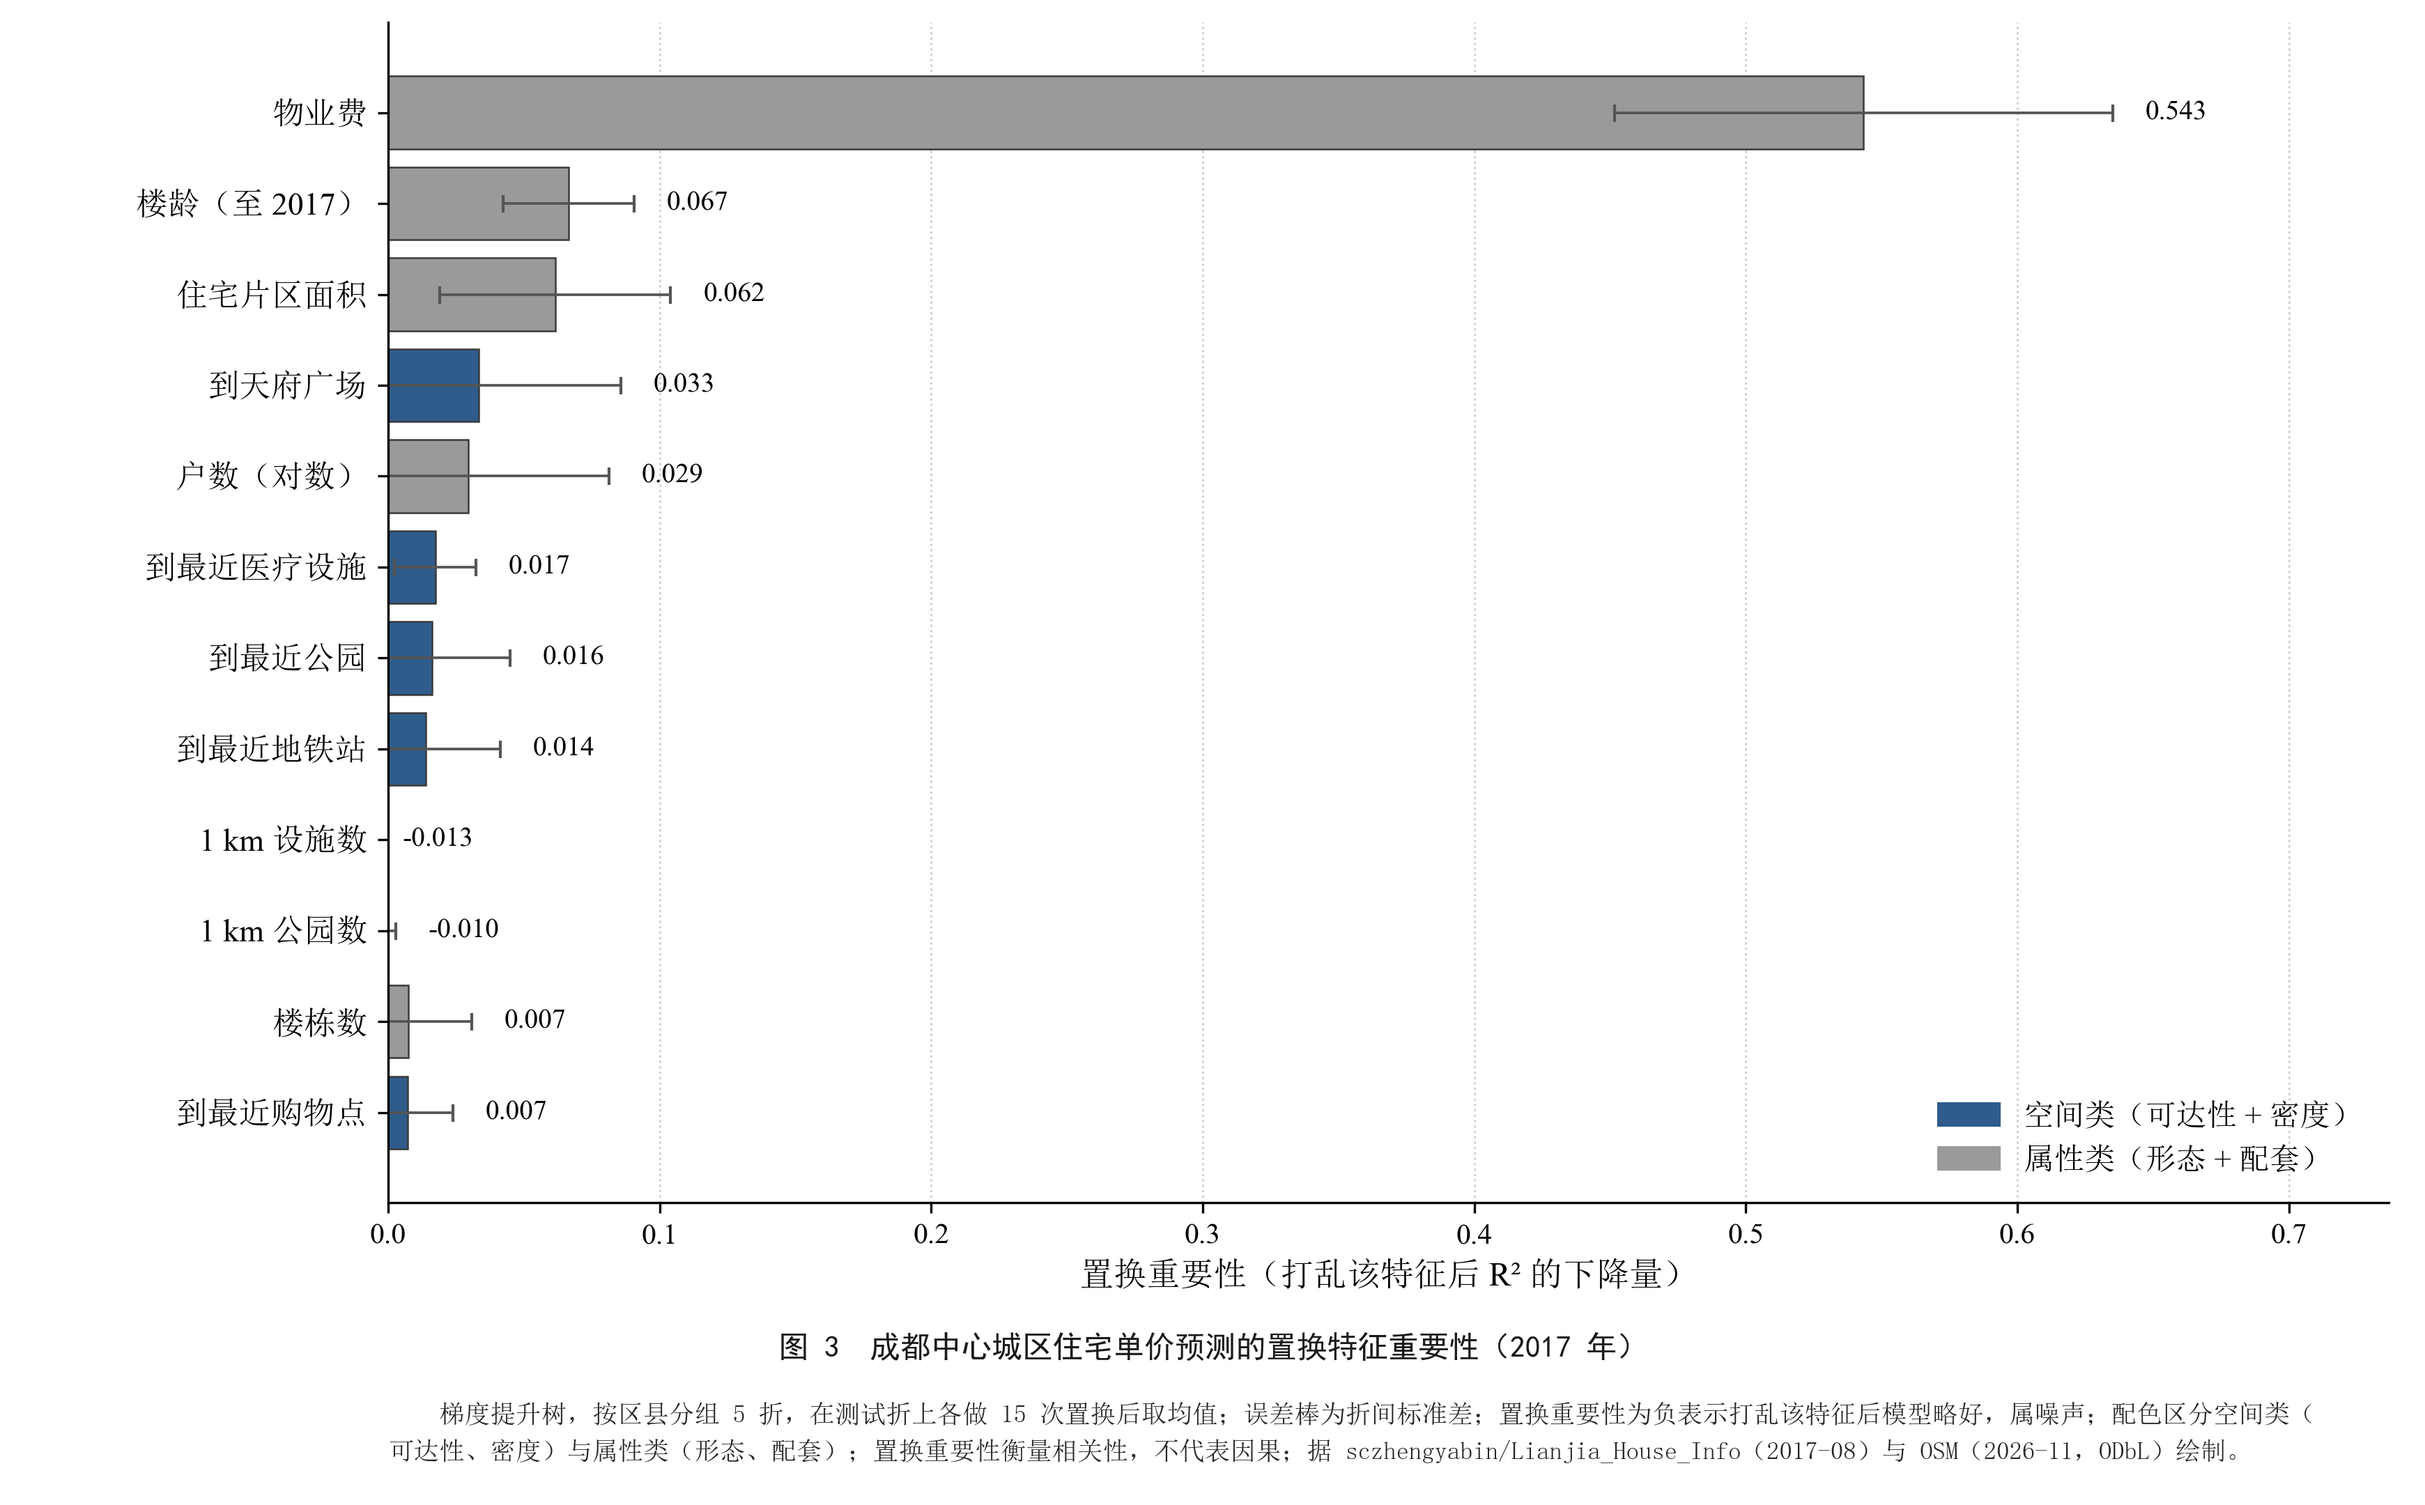
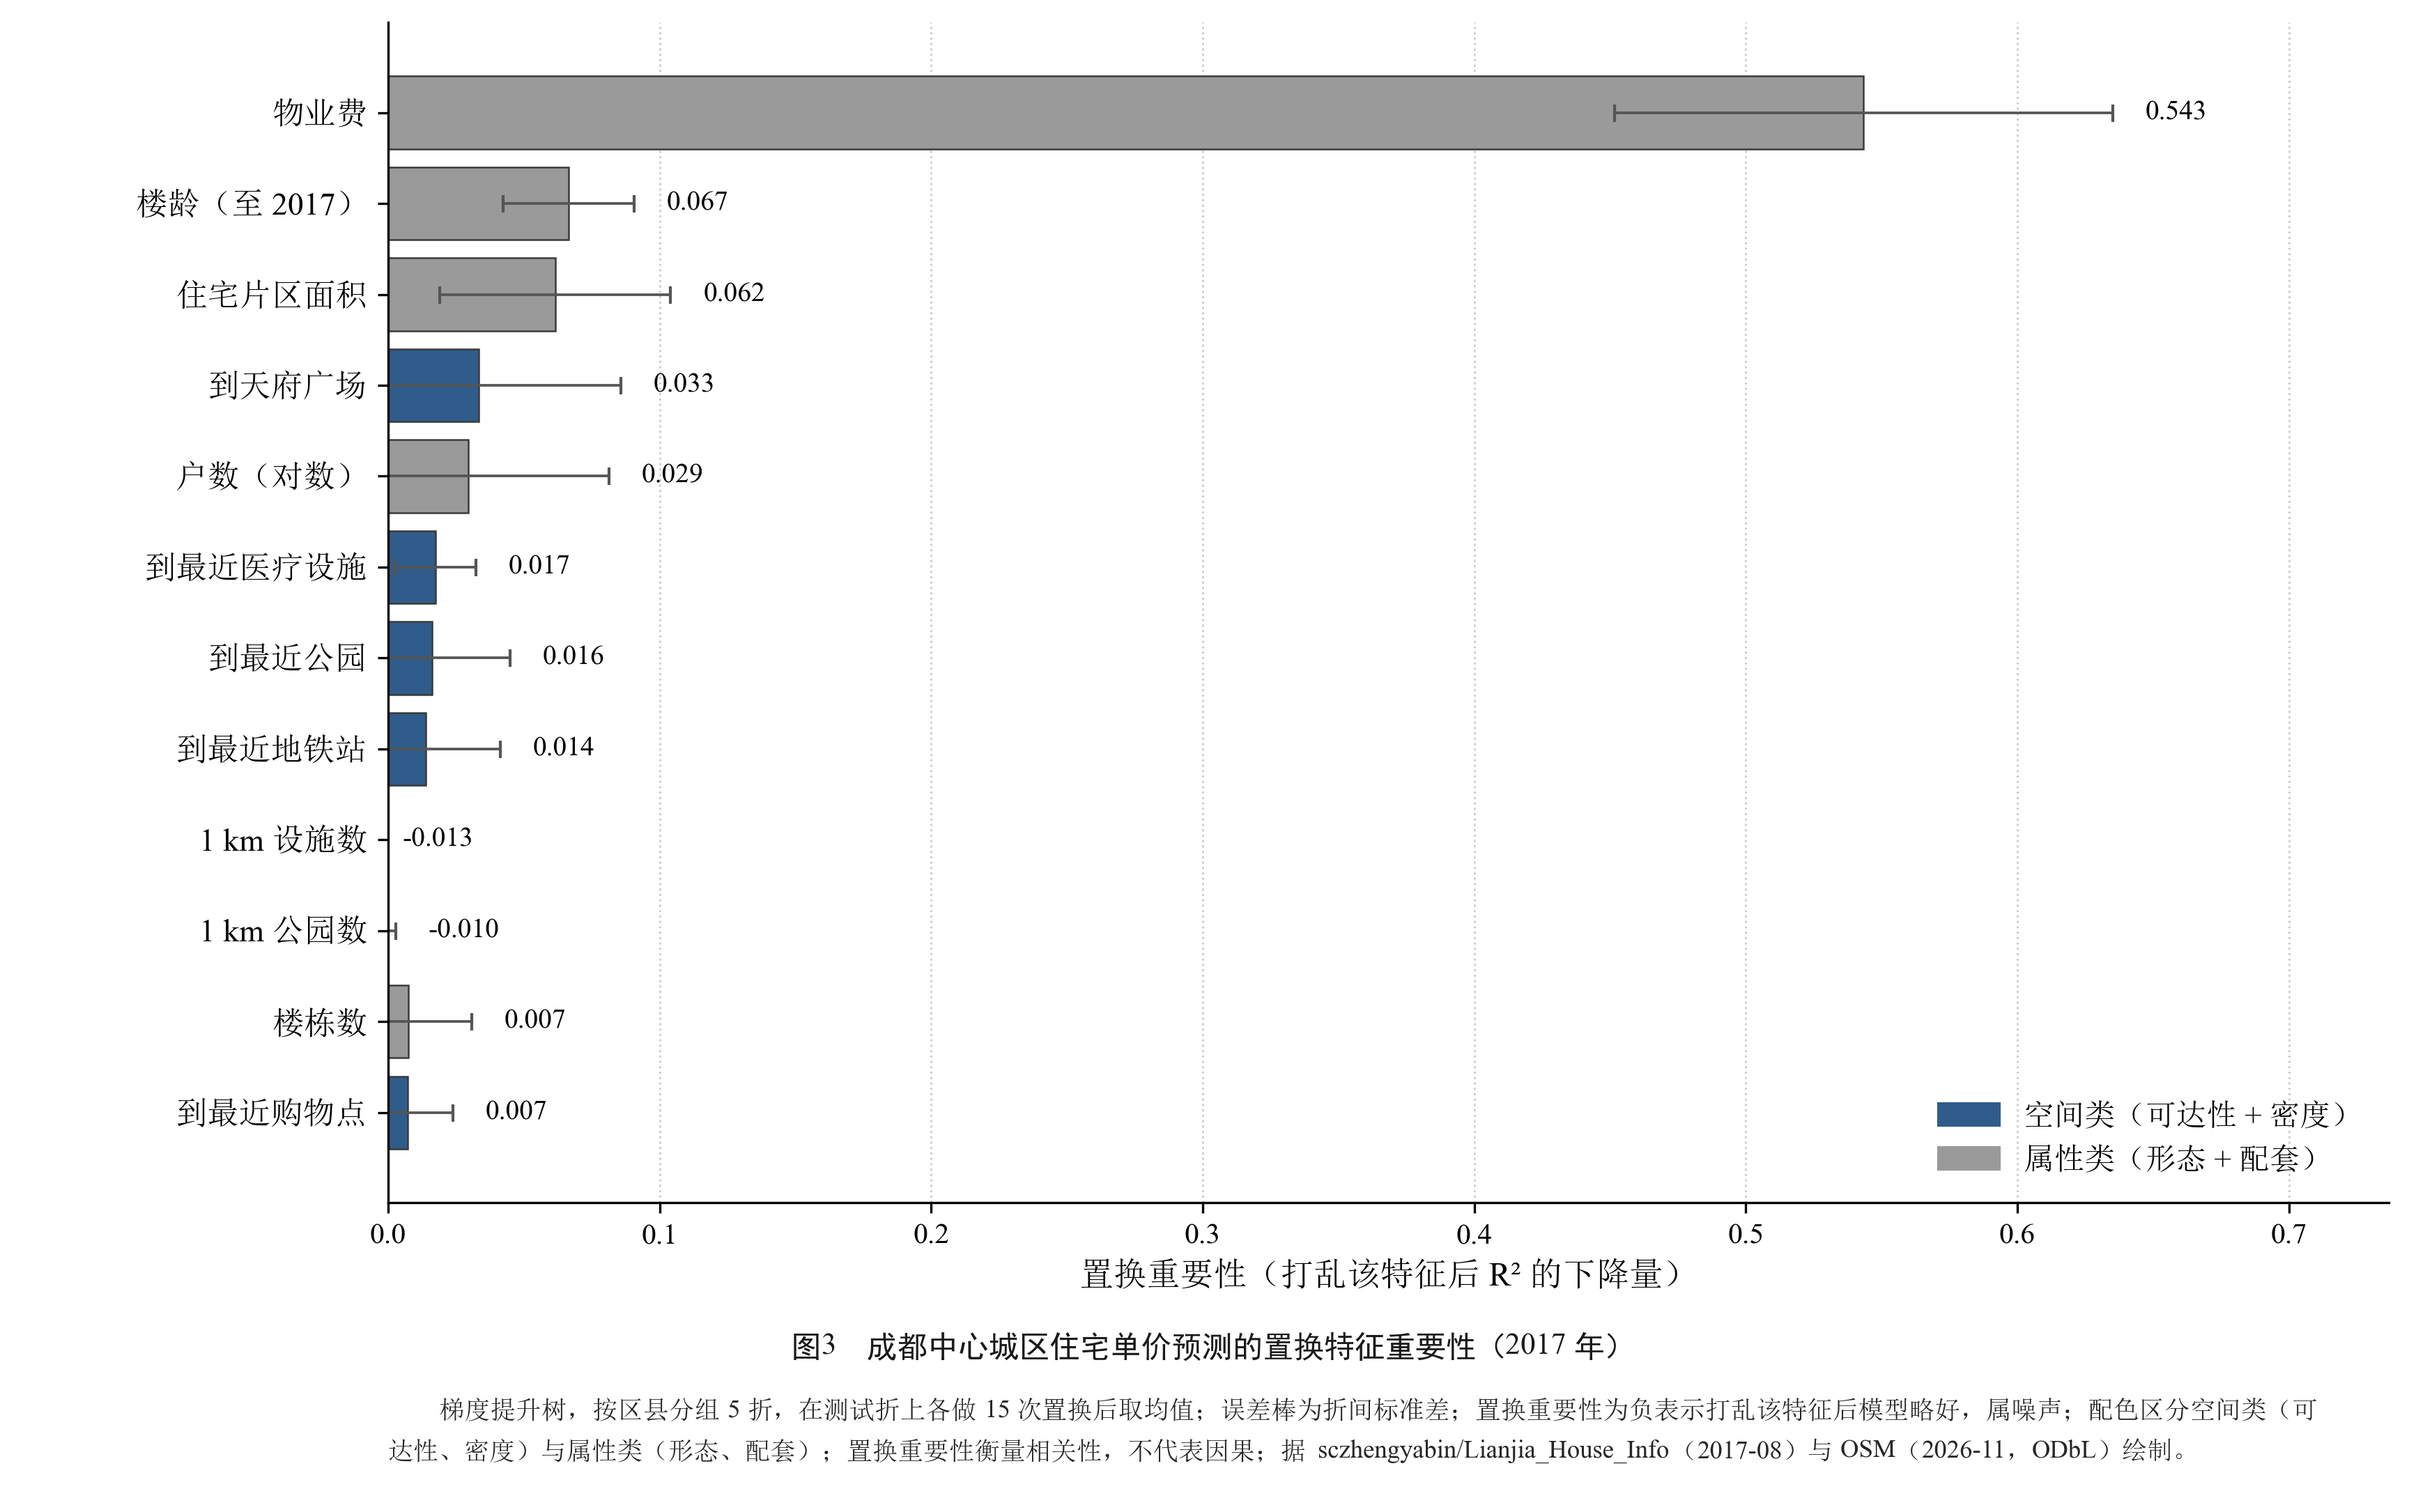
图注西文改 Times New Roman，图号与题名间改 1 个汉字；注释断行加避头尾，不切数字串与括号

Changed region(s): [[0.1862, 0.9306, 0.9621, 0.9926], [0.3103, 0.8685, 0.6828, 0.8995]]

diff --git a/figures.py b/figures.py
@@ -8,6 +8,7 @@
 from __future__ import annotations
 
 import json
+import re
 import textwrap
 from pathlib import Path
 
@@ -52,39 +53,129 @@ def setup_fonts() -> bool:
     return ok
 
 
-def _wrap_measured(fig, text: str, avail_pt: float, fp) -> list[str]:
-    """按真实字宽断行。SimSun 的中文与西文字宽差异大，且全角空格无墨迹，
-    因此用渲染器量每行的实际宽度，而不是按字符数估。"""
-    ren = fig.canvas.get_renderer()
-    probe = fig.text(0, -40, "", fontproperties=fp)
+# 断行用：西文/数字串整体不拆；行末禁则与行首禁则（简易避头尾）
+_LATIN_TOKEN = re.compile(r"[A-Za-z0-9][A-Za-z0-9\.\-_/+]*")
+_NO_LINE_END = "（【《〈“‘〔"
+_NO_LINE_START = "）】》〉”’〕、。，；：！？%‰"
 
-    def w(s: str) -> float:
-        probe.set_text(s)
-        return probe.get_window_extent(renderer=ren).width * 72 / fig.dpi
+
+def _seg(text: str) -> list[tuple[int, str]]:
+    """按字符集切段：0 = 中文（含全角标点、全角空格），1 = 西文（ASCII）。"""
+    out: list[tuple[int, str]] = []
+    for ch in text:
+        k = 1 if ord(ch) < 128 else 0
+        if out and out[-1][0] == k:
+            out[-1] = (k, out[-1][1] + ch)
+        else:
+            out.append((k, ch))
+    return out
+
+
+def _mk_probe(fig, fp):
+    """量字宽。用两端加哨兵字的方式做差，避免「纯空格/无墨迹字符串」的
+    extent 宽为 0（会把全角空格吞掉，导致图号与题名之间只剩一点缝隙）。"""
+    p = fig.text(0, -40, "", fontproperties=fp)
+    ren = fig.canvas.get_renderer()
+
+    def ext(s: str) -> float:
+        p.set_text(s)
+        return p.get_window_extent(renderer=ren).width * 72 / fig.dpi
+
+    def width_pt(s: str) -> float:
+        if not s:
+            return 0.0
+        return ext("x" + s + "x") - ext("xx")
+
+    return p, width_pt
+
+
+def _tokens(text: str) -> list[str]:
+    """把文本拆成不可再分的排版单元：西文/数字串整体不拆，中文逐字。"""
+    out: list[str] = []
+    i = 0
+    while i < len(text):
+        m = _LATIN_TOKEN.match(text, i)
+        if m and m.end() > i:
+            tok = m.group(0)
+            if m.end() < len(text) and text[m.end()] in "%‰℃":
+                tok += text[m.end()]
+                i = m.end() + 1
+            else:
+                i = m.end()
+            out.append(tok)
+        else:
+            out.append(text[i])
+            i += 1
+    return out
+
+
+def _wrap_measured(fig, text: str, avail_pt: float, cjk_fp, latin_fp) -> list[str]:
+    """按真实字宽断行：中文用 SimSun、西文用 Times New Roman 各量各的字宽。
+    西文与数字串不拆开；并简单避头尾（行末不排「（」，行首不排「）」等标点）。"""
+    p0, w0 = _mk_probe(fig, cjk_fp)
+    p1, w1 = _mk_probe(fig, latin_fp)
+    w = {0: w0, 1: w1}
+
+    def width(s: str) -> float:
+        return sum(w[k](seg) for k, seg in _seg(s))
 
     lines, cur = [], ""
-    for ch in text:
-        if cur and w(cur + ch) > avail_pt:
-            lines.append(cur)
-            cur = ch
+    for tok in _tokens(text):
+        cand = cur + tok
+        if cur and width(cand) > avail_pt:
+            if cur[-1] in _NO_LINE_END and len(cur) > 1:
+                lines.append(cur[:-1])
+                cur = cur[-1] + tok
+            else:
+                lines.append(cur)
+                cur = tok
         else:
-            cur += ch
+            cur = cand
     if cur:
         lines.append(cur)
-    probe.remove()
+
+    # 行首禁则：标点留在上一行末（允许轻微悬挂，但不超图宽）
+    for i in range(1, len(lines)):
+        while lines[i] and lines[i][0] in _NO_LINE_START and width(lines[i - 1] + lines[i][0]) <= avail_pt * 1.02:
+            lines[i - 1] += lines[i][0]
+            lines[i] = lines[i][1:]
+    p0.remove()
+    p1.remove()
     return lines
+
+
+def _draw_mixed(fig, x0: float, y: float, text: str, cjk_fp, latin_fp, color: str,
+                centered: bool = False) -> None:
+    """逐段落字：中文走黑体/宋体，西文走 Times New Roman，位置按实测字宽递推。"""
+    p0, w0 = _mk_probe(fig, cjk_fp)
+    p1, w1 = _mk_probe(fig, latin_fp)
+    w = {0: w0, 1: w1}
+    total = sum(w[k](seg) for k, seg in _seg(text))
+    fw_pt = fig.get_figwidth() * 72
+    x = (x0 - total / (2 * fw_pt)) if centered else x0
+    for k, seg in _seg(text):
+        fp = cjk_fp if k == 0 else latin_fp
+        fig.text(x, y, seg, fontproperties=fp, ha="left", va="bottom", color=color)
+        x += w[k](seg) / fw_pt
+    p0.remove()
+    p1.remove()
 
 
 def add_caption(fig, ax, no: int, title: str, notes: list[str],
                 xlabel_space: float = 0.0) -> None:
     """论文式图注（GB/T 7713.2—2022 §5.4.3 ＋ CY/T 171—2019 §7.2）：
     图号与图题居中置于图下、字号小于正文、不加粗（黑体用字）；整图注置于图题下方，
-    左对齐、首行缩进 2 字、排字宽度不超过图宽，各条之间用分号、末条用句号。"""
+    左对齐、首行缩进 2 字、排字宽度不超过图宽，各条之间用分号、末条用句号。
+    中文与西文分别用宋体/黑体与 Times New Roman 排。"""
     body = "；".join(n.strip().rstrip("。") for n in notes) + "。"
-    fp = font_manager.FontProperties(family="SimSun", size=8.8)
+    cjk_n = font_manager.FontProperties(family="SimSun", size=8.8)
+    lat_n = font_manager.FontProperties(family="Times New Roman", size=8.8)
+    cjk_t = font_manager.FontProperties(family="SimHei", size=10.5)
+    lat_t = font_manager.FontProperties(family="Times New Roman", size=10.5)
+
     box = ax.get_position()
     avail_pt = fig.get_figwidth() * (box.x1 - box.x0) * 72 * 0.98  # 图宽
-    lines = _wrap_measured(fig, "　　" + body, avail_pt, fp)
+    lines = _wrap_measured(fig, "　　" + body, avail_pt, cjk_n, lat_n)
 
     fig_h = fig.get_figheight()
     pad, gap = 0.20, 0.10
@@ -94,11 +185,13 @@ def add_caption(fig, ax, no: int, title: str, notes: list[str],
                         left=fig.subplotpars.left, right=fig.subplotpars.right,
                         top=fig.subplotpars.top)
 
-    fig.text(box.x0, pad / fig_h, "\n".join(lines), ha="left", va="bottom",
-             fontsize=8.8, color="#262626", linespacing=1.6, fontfamily="SimSun")
-    fig.text(0.5, (pad + h_notes + gap) / fig_h, f"图 {no}　{title}",
-             ha="center", va="bottom", fontsize=10.5, fontfamily="SimHei",
-             color="#1a1a1a")
+    line_h_pt = 8.8 * 1.6
+    for i, ln in enumerate(lines):
+        y_pt = (pad * 72) + (len(lines) - 1 - i) * line_h_pt
+        _draw_mixed(fig, box.x0, y_pt / (fig_h * 72), ln, cjk_n, lat_n, "#262626")
+
+    _draw_mixed(fig, 0.5, ((pad + h_notes + gap) / fig_h), f"图{no}　{title}",
+                cjk_t, lat_t, "#1a1a1a", centered=True)
 
 
 def load_all():
